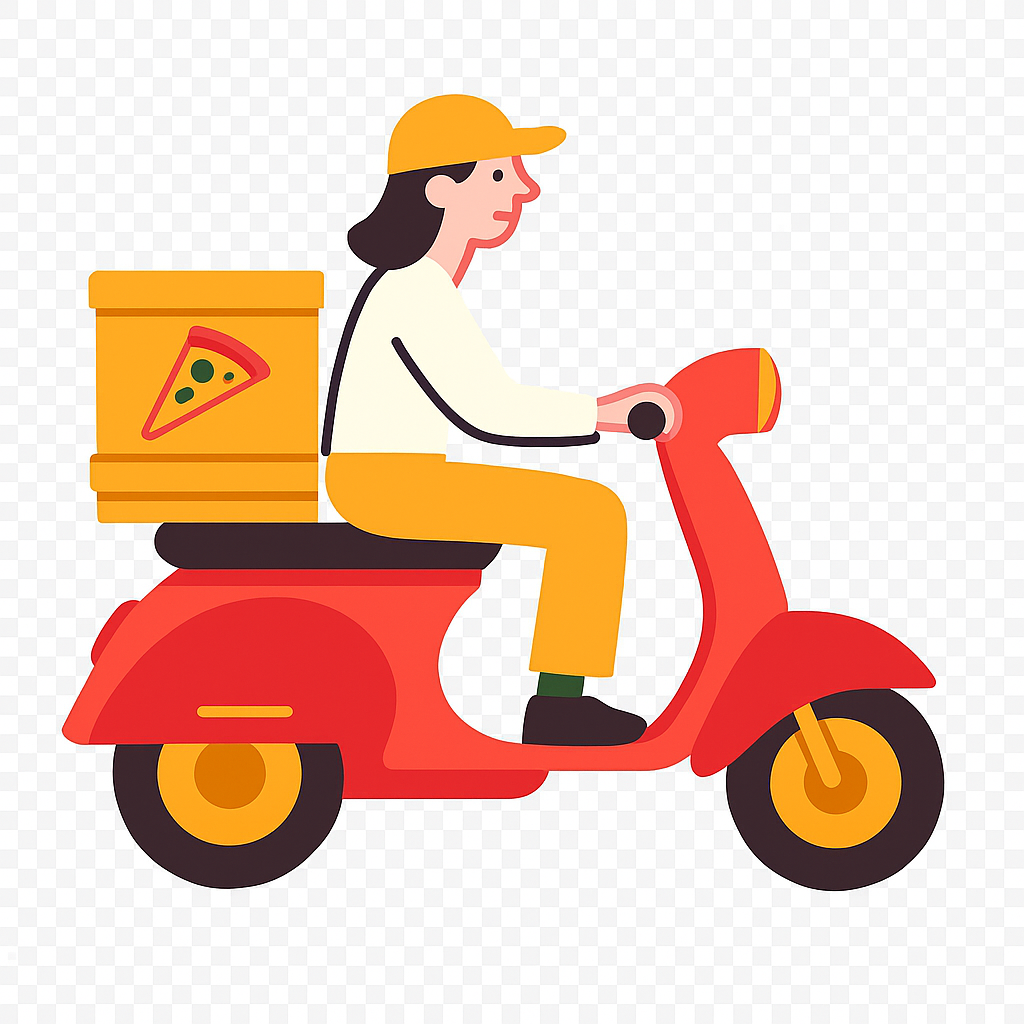
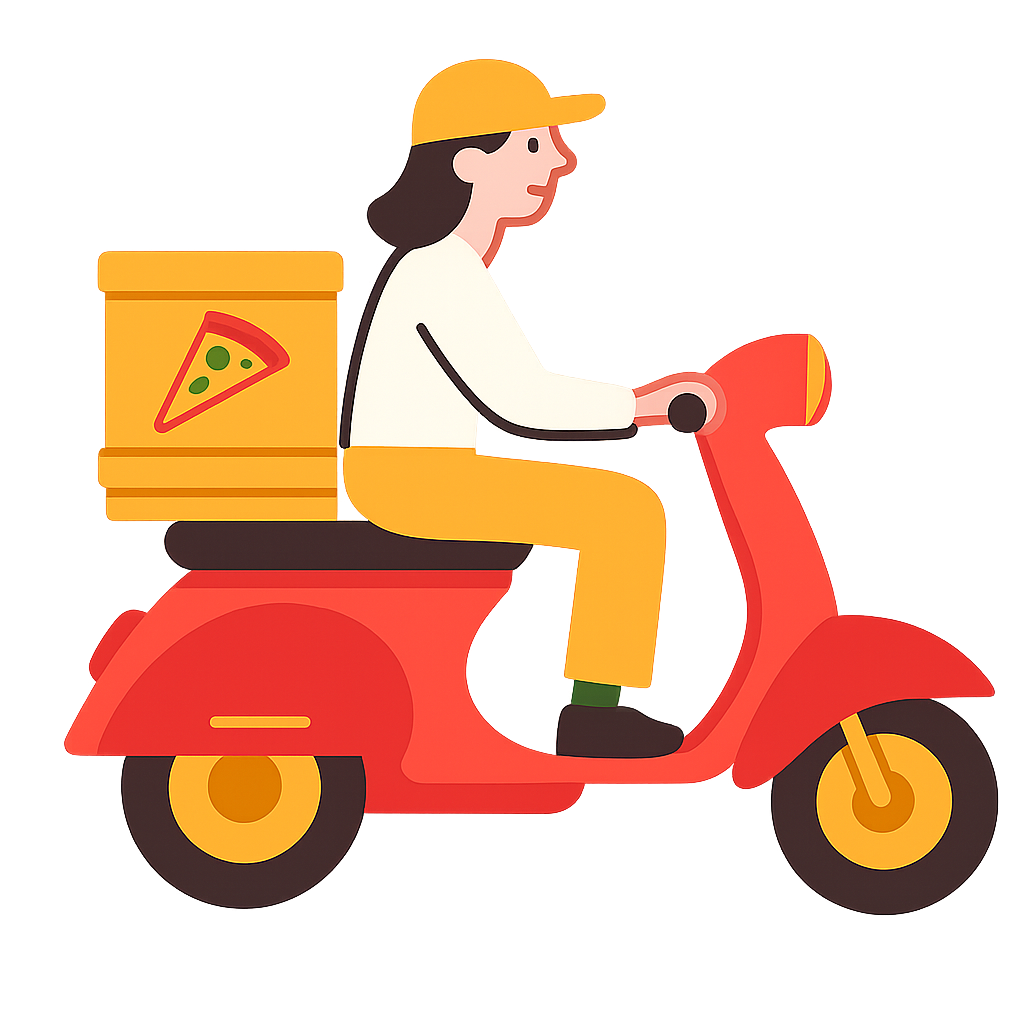
chore: add auth debug ping + harden supabase client

Changed region(s): [[0.0625, 0.0312, 1.0, 0.9062], [0.125, 0.8125, 0.1562, 0.8438]]

diff --git a/src/app/app/page.tsx b/src/app/app/page.tsx
@@ -4,6 +4,7 @@ import { useEffect, useMemo, useState, useRef } from 'react'
 import { supabase } from '../../lib/supabase'
 import PointsOvenCard from '../../components/PointsOvenCard'
 import PizzaBackground from '../../components/PizzaBackground'
+import DeliveryMotion from '../../components/DeliveryMotion';
 
 /* ========= Ajustes de la imagen decorativa ========= */
 const IMAGE_SRC = '/brand/repartidor.png'
@@ -153,6 +154,84 @@ function Toast({ show, children }: { show: boolean; children: React.ReactNode })
     </div>
   )
 }
+/* ===== Sticker animado: humo + polvo + suspensión ===== */
+function RepartidorSticker({
+  src,
+  widthClass,
+  opacity = 1,
+  offsetY = 0,
+}: {
+  src: string
+  widthClass: string
+  opacity?: number
+  offsetY?: number
+}) {
+  return (
+    <div
+      className={`relative ${widthClass} select-none pointer-events-none`}
+      style={{ opacity, transform: `translateY(${offsetY}px)` }}
+      aria-hidden="true"
+    >
+      {/* Imagen PNG transparente (sticker) */}
+      <img
+        src={src}
+        alt=""
+        className="w-full h-auto drop-shadow-[0_10px_24px_rgba(0,0,0,0.22)]"
+        loading="lazy"
+        decoding="async"
+      />
+
+      {/* Sombra suave */}
+      <div className="absolute left-0 right-0 -bottom-[2%] mx-auto h-[10%] max-h-8 w-[70%] rounded-full bg-black/25 blur-[12px] opacity-55" />
+
+      {/* Polvo — rueda trasera */}
+      <div className="absolute bottom-[6%] left-[18%] -translate-x-1/2 w-[28%] h-[18%]">
+        <span className="absolute left-1/2 top-1/2 -translate-x-1/2 -translate-y-1/2 block size-[60%] rounded-full bg-[radial-gradient(closest-side,rgba(255,183,3,0.40),rgba(255,183,3,0)_70%)] animate-dust-pulse" />
+        <span className="absolute left-0 top-1/2 -translate-y-1/2 block w-[75%] h-[42%] rounded-full bg-[radial-gradient(closest-side,rgba(255,221,170,0.38),rgba(255,221,170,0)_70%)] animate-dust-drift" />
+      </div>
+
+      {/* Polvo — rueda delantera */}
+      <div className="absolute bottom-[6%] left-[72%] -translate-x-1/2 w-[28%] h-[18%]">
+        <span className="absolute left-1/2 top-1/2 -translate-x-1/2 -translate-y-1/2 block size-[60%] rounded-full bg-[radial-gradient(closest-side,rgba(255,183,3,0.40),rgba(255,183,3,0)_70%)] animate-dust-pulse delay-150" />
+        <span className="absolute left-0 top-1/2 -translate-y-1/2 block w-[75%] h-[42%] rounded-full bg-[radial-gradient(closest-side,rgba(255,221,170,0.38),rgba(255,221,170,0)_70%)] animate-dust-drift delay-150" />
+      </div>
+
+      {/* Humo del escape — más notorio */}
+      <div className="absolute bottom-[19%] left-[24%] w-[22%] h-[24%]">
+        <span className="absolute left-0 bottom-0 block size-[20%] rounded-full bg-white/65 blur-[1px] animate-smoke" />
+        <span className="absolute left-[10%] bottom-[12%] block size-[26%] rounded-full bg-white/55 blur-[1.5px] animate-smoke delay-150" />
+        <span className="absolute left-[22%] bottom-[18%] block size-[32%] rounded-full bg-white/45 blur-[2px] animate-smoke delay-300" />
+      </div>
+
+      {/* micro “rebote” de suspensión en las ruedas (oscila el polvo) */}
+      <style jsx>{`
+        @keyframes dustPulse {
+          0% { transform: scale(0.85); opacity: 0.0; }
+          20% { opacity: 0.55; }
+          60% { transform: scale(1.08); opacity: 0.35; }
+          100% { transform: scale(1.22); opacity: 0; }
+        }
+        @keyframes dustDrift {
+          0% { transform: translateX(0) translateY(0) scale(0.92); opacity: 0.0; }
+          15% { opacity: 0.40; }
+          60% { transform: translateX(14%) translateY(-1px) scale(1.04); }
+          100% { transform: translateX(22%) translateY(-2px) scale(1.08); opacity: 0; }
+        }
+        @keyframes smokeRise {
+          0% { transform: translate(0, 0) scale(0.8); opacity: 0.0; }
+          20% { opacity: 0.6; }
+          100% { transform: translate(18%, -34%) scale(1.22); opacity: 0; }
+        }
+        .animate-dust-pulse { animation: dustPulse 1.35s ease-out infinite; }
+        .animate-dust-drift { animation: dustDrift 1.6s ease-out infinite; }
+        .animate-smoke { animation: smokeRise 1.8s ease-out infinite; }
+        .delay-150 { animation-delay: .15s !important; }
+        .delay-300 { animation-delay: .3s !important; }
+      `}</style>
+    </div>
+  )
+}
+
 
 /* ================================ */
 export default function DashboardPage() {
@@ -362,27 +441,26 @@ export default function DashboardPage() {
           </div>
         </div>
 
-        {/* —— BLOQUE de imagen + frase —— */}
-        <div className="my-10 sm:my-14 lg:my-16">
-          <div className="flex justify-center py-4 pointer-events-none select-none">
-            <img
-              src={IMAGE_SRC}
-              alt=""
-              aria-hidden="true"
-              loading="lazy"
-              className={`mix-blend-multiply ${IMAGE_WIDTH_CLASS}`}
-              style={{ opacity: IMAGE_OPACITY, transform: `translateY(${IMAGE_OFFSET_Y}px)` }}
-            />
-          </div>
-          <div className="text-center" aria-live="polite">
-            <span
-              key={quoteIndex}
-              className={`inline-block text-sm sm:text-base text-cugini-dark/80 transition-opacity duration-500 ${fadeIn ? 'opacity-100' : 'opacity-0'}`}
-            >
-              {QUOTES[quoteIndex]}
-            </span>
-          </div>
-        </div>
+       
+{/* —— BLOQUE de imagen + frase (sticker animado) —— */}
+<div className="my-10 sm:my-14 lg:my-16">
+  <div className="flex justify-center py-4">
+    <RepartidorSticker
+      src={IMAGE_SRC}                  // asegúrate que este PNG ya es transparente
+      widthClass={IMAGE_WIDTH_CLASS}   // mantiene tu responsivo
+      opacity={0.95}                   // un pelín más presente
+      offsetY={IMAGE_OFFSET_Y}
+    />
+  </div>
+  <div className="text-center" aria-live="polite">
+    <span
+      key={quoteIndex}
+      className={`inline-block text-sm sm:text-base text-cugini-dark/80 transition-opacity duration-500 ${fadeIn ? 'opacity-100' : 'opacity-0'}`}
+    >
+      {QUOTES[quoteIndex]}
+    </span>
+  </div>
+</div>
 
         {/* Últimos movimientos (visual cálido y diferenciado) */}
         <div className="rounded-3xl shadow-lg shadow-amber-900/10 bg-white/55 backdrop-blur-sm ring-1 ring-black/5">

diff --git a/src/components/DeliveryMotion.tsx b/src/components/DeliveryMotion.tsx
@@ -1,0 +1,56 @@
+// src/components/DeliveryMotion.tsx
+'use client';
+
+type Props = {
+  children: React.ReactNode;
+  /** 1 = normal, 0.8 = más lento, 1.2 = más rápido */
+  speed?: number;
+  /** amplitud del bamboleo: 'sm' | 'md' */
+  sway?: 'sm' | 'md';
+};
+
+/**
+ * Envuelve al sticker y le da vida:
+ * - balanceo sutil (lean) del cuerpo
+ * - micro-salto y compresión de suspensión (bounce)
+ * Todo con CSS puro para evitar hydration mismatches.
+ */
+export default function DeliveryMotion({ children, speed = 1, sway = 'sm' }: Props) {
+  const scale = Math.max(0.6, Math.min(1.8, speed));
+  const swayClass = sway === 'md' ? 'dm-lean-md' : 'dm-lean-sm';
+
+  return (
+    <div className={`dm-root ${swayClass}`} style={{ ['--dm-speed' as any]: `${scale}s` }}>
+      {children}
+      <style jsx>{`
+        .dm-root {
+          display: inline-block;
+          /* “ciclo”: sutil balanceo + micro-bounce */
+          animation: dmCycle var(--dm-speed, 1s) ease-in-out infinite;
+          /* evita pixel-shimmer */
+          will-change: transform;
+        }
+        /* balanceo adicional */
+        .dm-lean-sm { animation-name: dmCycle, dmLeanSm; animation-duration: var(--dm-speed, 1s), calc(var(--dm-speed, 1s) * 1.8); animation-timing-function: ease-in-out, ease-in-out; animation-iteration-count: infinite, infinite; }
+        .dm-lean-md { animation-name: dmCycle, dmLeanMd; animation-duration: var(--dm-speed, 1s), calc(var(--dm-speed, 1s) * 1.8); animation-timing-function: ease-in-out, ease-in-out; animation-iteration-count: infinite, infinite; }
+
+        @keyframes dmCycle {
+          0%   { transform: translateY(0) }
+          40%  { transform: translateY(-1.5px) }
+          60%  { transform: translateY(0) }
+          100% { transform: translateY(0) }
+        }
+        @keyframes dmLeanSm {
+          0% { rotate: 0deg }
+          50%{ rotate: -0.6deg }
+          100%{ rotate: 0deg }
+        }
+        @keyframes dmLeanMd {
+          0% { rotate: 0deg }
+          50%{ rotate: -1.1deg }
+          100%{ rotate: 0deg }
+        }
+      `}</style>
+    </div>
+  );
+}
